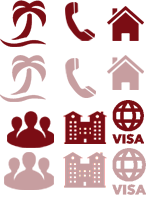
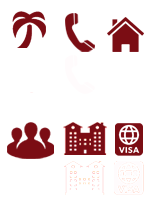
add news and event scaffold

diff --git a/app/assets/stylesheets/application.css.scss b/app/assets/stylesheets/application.css.scss
@@ -126,13 +126,13 @@ p, span {color:#000}
   }
 .menu_bar .menu-side {position:relative; height:60%;  z-index:200;}
 .logo-side {
-  top: -48px;    
+  top: -43px;    
   z-index: 50;  
   height:210px;
   background-image: url(image-path('didar_travel.png'));
   background-repeat: no-repeat;
   background-position: center;
-  background-size: cover;
+  background-size:120%;
   }
 .menu_bar .menu-side.right-side {margin-right:5px}
 .logo-side a {text-align:center}
@@ -161,18 +161,18 @@ p, span {color:#000}
   -webkit-transition: all .5s; /* For Safari 3.1 to 6.0 */
   transition: all .5s; 
   }
-.menu_bar ul#main-menu li.item-menu .icon#home{background-position: 100% 30%; }
-.menu_bar ul#main-menu li.item-menu .icon#tours{background-position: 0 30%; }
-.menu_bar ul#main-menu li.item-menu .icon#hotels{background-position: 57% 95%;}
-.menu_bar ul#main-menu li.item-menu .icon#visa{background-position: 111% 95%;}
-.menu_bar ul#main-menu li.item-menu .icon#page1{background-position: 0 95%;}
+.menu_bar ul#main-menu li.item-menu .icon#home{background-position: 100% 35%; }
+.menu_bar ul#main-menu li.item-menu .icon#tours{background-position: 0 33%; }
+.menu_bar ul#main-menu li.item-menu .icon#hotels{background-position: 57% 100%;}
+.menu_bar ul#main-menu li.item-menu .icon#visa{background-position: 100% 100%;}
+.menu_bar ul#main-menu li.item-menu .icon#page1{background-position: 10% 100%;}
 .menu_bar ul#main-menu li.item-menu .icon#page2{background-position: 53% 35%;}
-.menu_bar ul#main-menu li.item-menu:hover .icon#home,.menu_bar ul#main-menu li.item-menu.active .icon#home{background-position: 100% 0;}
-.menu_bar ul#main-menu li.item-menu:hover .icon#tours,.menu_bar ul#main-menu li.item-menu.active .icon#tours{background-position: 0 -5%;}
-.menu_bar ul#main-menu li.item-menu:hover .icon#hotels,.menu_bar ul#main-menu li.item-menu.active .icon#hotels{background-position: 57% 65%;}
-.menu_bar ul#main-menu li.item-menu:hover .icon#visa,.menu_bar ul#main-menu li.item-menu.active .icon#visa{background-position: 111% 65%;}
-.menu_bar ul#main-menu li.item-menu:hover .icon#page1,.menu_bar ul#main-menu li.item-menu.active .icon#page1{background-position: 0 68%;}
-.menu_bar ul#main-menu li.item-menu:hover .icon#page2,.menu_bar ul#main-menu li.item-menu.active .icon#page2{background-position: 52% -2%;}
+.menu_bar ul#main-menu li.item-menu:hover .icon#home,.menu_bar ul#main-menu li.item-menu.active .icon#home{background-position: 100% 7%;}
+.menu_bar ul#main-menu li.item-menu:hover .icon#tours,.menu_bar ul#main-menu li.item-menu.active .icon#tours{background-position: 0 3%;}
+.menu_bar ul#main-menu li.item-menu:hover .icon#hotels,.menu_bar ul#main-menu li.item-menu.active .icon#hotels{background-position: 57% 73%;}
+.menu_bar ul#main-menu li.item-menu:hover .icon#visa,.menu_bar ul#main-menu li.item-menu.active .icon#visa{background-position: 100% 75%;}
+.menu_bar ul#main-menu li.item-menu:hover .icon#page1,.menu_bar ul#main-menu li.item-menu.active .icon#page1{background-position: 10% 75%;}
+.menu_bar ul#main-menu li.item-menu:hover .icon#page2,.menu_bar ul#main-menu li.item-menu.active .icon#page2{background-position: 52% 4%;}
 .menu_bar ul#main-menu.fa li.item-menu {font-family: 'Bhoma';}
 .menu_bar ul#main-menu li.item-menu a {  
   padding-top:50px;
@@ -276,13 +276,13 @@ left: 0;}
 .footer  .contact-info.fa p {direction:rtl; font-family: 'open_sansregular';color:#fff}
 .footer  .contact-info.ar p {direction:ltr; font-family:'ASpiritOfDohaMedium'; font-size:1em; color:#fff}
 .footer  .contact-info.en p { color:#fff}
-.yield {position:relative}
+.yield {position:relative; margin-top:-75px;}
 .anchorLink {position:fixed; bottom:0; left:0; z-index:10}
 .form-control:focus {border-color:#CC1A1A}
 .form-control {background-color:transparent; border:1px solid #BFBFBF}
 .footer .google-map-box {border:1px solid #BFBFBF; width:100%; height:300px}
 .footer .footer-bottom {position: absolute;
-  height:120px; overflow:hidden;
+  height:130px; overflow:hidden;
 bottom: 0;}
 .footer-menu ul{list-style:none}
 .footer-menu ul li{list-style:none}
@@ -302,8 +302,9 @@ top: 0;
   background-repeat:no-repeat;
   border:none;  
   background-color:transparent;
+  background-position: 50% 0;
   color:#fff;
-  padding-top: 45%;
+  padding-top: 40px;
   width:60px;
   text-align:center;
   }
@@ -311,8 +312,9 @@ top: 0;
   background-repeat:no-repeat;
   border:none;  
   background-color:transparent;
+  background-position: 50% 0;
   color:#fff;
-  padding-top: 60%;
+  padding-top: 40px;
   margin-top: -17%;
   width:60px;
   }
@@ -370,7 +372,7 @@ top: 0;
   }
 .slider4 .slide .more-info a i{
     position: absolute;
-    right: 45%;
+    right: 5%;
     width: 100px;
     height: 40px;
     left: 20%;
@@ -426,3 +428,23 @@ top: 0;
 .plane-company .plane-logo{width:100px; height:100px; float:right;}
 .title-certificate {}
 .plane-company .plane-logo:hover a img{opacity:.6}
+.show-news-and-event {margin-bottom:5%}
+
+.show-news-and-event.fa .news-title, .show-news-and-event.ar .news-title {text-align:right}
+.show-news-and-event.en .news-title{text-align:left}
+.show-news-and-event .news-text {margin-top:5%}
+.show-news-and-event.fa .news-text, .show-news-and-event.ar .news-text {float:right; border-right:solid 4px #530707}
+.show-news-and-event.fa .news-text p, .show-news-and-event.ar .news-text p {text-align:justify; direction:rtl;}
+.show-news-and-event.fa .news-text p {direction:rtl; font-family: 'open_sansregular';}
+.show-news-and-event.ar .news-text p {direction:rtl; font-family:'ASpiritOfDohaMedium'; font-size:1.2em }
+h1.page-title#news_and_vent {
+  background-image: url(image-path('news-line.png'));
+  background-repeat:no-repeat;  
+  background-position:50% 100%;
+  height:85px;
+  color:#530707;
+  text-align:center;
+  }
+    
+ul.news_and_vents {list-style:square; padding:5%}
+ul.news_and_vents li.news-item{font-size:1.2em}

diff --git a/app/assets/stylesheets/jquery-ui-1.8.14.css.scss b/app/assets/stylesheets/jquery-ui-1.8.14.css.scss
@@ -306,7 +306,7 @@
  *
  * http://docs.jquery.com/UI/Datepicker#theming
  */
-.ui-datepicker { width: 17em; padding: .2em .2em 0; display: none; }
+.ui-datepicker { width: 14em; padding: .2em .2em 0; display: none; }
 .ui-datepicker .ui-datepicker-header { position:relative; padding:.2em 0; background:#6B0C0C; }
 .ui-datepicker .ui-datepicker-prev, .ui-datepicker .ui-datepicker-next { position:absolute; top: 2px; width: 1.8em; height: 1.8em; }
 .ui-datepicker .ui-datepicker-prev-hover, .ui-datepicker .ui-datepicker-next-hover { top: 1px; }

diff --git a/app/assets/stylesheets/example_jquerytools.css.scss b/app/assets/stylesheets/example_jquerytools.css.scss
@@ -13,7 +13,7 @@
 	font-family: Tahoma, Helvetica, sans-serif;
 	font-size: 90%;
 	margin: 2em 3em;
-	width: 280px;
+	width: 100%;
 	color: #ccc;
 }
 .weatherFeed a { color: #888; }
@@ -55,7 +55,7 @@
 	position:relative;
 	overflow:hidden;	
 	height: 160px;	 
-	width: 280px;
+	width: 100%;
 	border: 4px solid #5D1111;
 	-moz-border-radius: 20px;
 	background: url(image-path('bg.png')) repeat-x;

diff --git a/app/controllers/news_and_vents_controller.rb b/app/controllers/news_and_vents_controller.rb
@@ -1,0 +1,75 @@
+# encoding: UTF-8
+class NewsAndVentsController < ApplicationController
+  before_action :set_news_and_vent, only: [:show, :edit, :update, :destroy]
+
+  # GET /news_and_vents
+  # GET /news_and_vents.json
+  def index
+    @news_and_vents = NewsAndVent.all
+  end
+
+  # GET /news_and_vents/1
+  # GET /news_and_vents/1.json
+  def show
+  end
+
+  # GET /news_and_vents/new
+  def new
+    @news_and_vent = NewsAndVent.new
+  end
+
+  # GET /news_and_vents/1/edit
+  def edit
+  end
+
+  # POST /news_and_vents
+  # POST /news_and_vents.json
+  def create
+    @news_and_vent = NewsAndVent.new(news_and_vent_params)
+
+    respond_to do |format|
+      if @news_and_vent.save
+        format.html { redirect_to @news_and_vent, notice: 'خبر جدید ثبت شد.' }
+        format.json { render :show, status: :created, location: @news_and_vent }
+      else
+        format.html { render :new }
+        format.json { render json: @news_and_vent.errors, status: :unprocessable_entity }
+      end
+    end
+  end
+
+  # PATCH/PUT /news_and_vents/1
+  # PATCH/PUT /news_and_vents/1.json
+  def update
+    respond_to do |format|
+      if @news_and_vent.update(news_and_vent_params)
+        format.html { redirect_to @news_and_vent, notice: 'ویرایش اطلاعات انجام شد.' }
+        format.json { render :show, status: :ok, location: @news_and_vent }
+      else
+        format.html { render :edit }
+        format.json { render json: @news_and_vent.errors, status: :unprocessable_entity }
+      end
+    end
+  end
+
+  # DELETE /news_and_vents/1
+  # DELETE /news_and_vents/1.json
+  def destroy
+    @news_and_vent.destroy
+    respond_to do |format|
+      format.html { redirect_to news_and_vents_url, notice: 'News and vent was successfully destroyed.' }
+      format.json { head :no_content }
+    end
+  end
+
+  private
+    # Use callbacks to share common setup or constraints between actions.
+    def set_news_and_vent
+      @news_and_vent = NewsAndVent.friendly.find(params[:id])
+    end
+
+    # Never trust parameters from the scary internet, only allow the white list through.
+    def news_and_vent_params
+      params.require(:news_and_vent).permit(:title_fa, :title_en, :title_ar, :text_fa, :text_en, :text_ar, :source, :image)
+    end
+end

diff --git a/app/models/news_and_vent.rb b/app/models/news_and_vent.rb
@@ -1,0 +1,27 @@
+# encoding: UTF-8
+class NewsAndVent < ActiveRecord::Base
+  extend FriendlyId  
+  friendly_id :title_fa
+  has_attached_file :image, :styles => { :original => "700x650>" , :medium => "450x450>", :small => "100x150>", :toursize => "248x370#", :tumb => "120x70" }
+  validates_attachment :image, 
+    :content_type => { :content_type => ["image/jpg", "image/jpeg", "image/png"], :message => "فرمت عکس صحیح می باشد." },
+    :size => { :in => 0..300.kilobytes , :message => "حجم تصویر بیشتر از 300 کیلوبایت است."}
+  def title
+    if I18n.locale == :ar
+      self.read_attribute("title_ar")
+    elsif I18n.locale == :en
+      self.read_attribute("title_en")
+    else
+      self.read_attribute("title_fa")
+    end    
+  end
+  def text
+    if I18n.locale == :ar
+      self.read_attribute("text_ar")
+    elsif I18n.locale == :en
+      self.read_attribute("text_en")
+    else
+      self.read_attribute("text_fa")
+    end    
+  end
+end

diff --git a/db/schema.rb b/db/schema.rb
@@ -11,7 +11,7 @@
 #
 # It's strongly recommended that you check this file into your version control system.
 
-ActiveRecord::Schema.define(version: 20150307075224) do
+ActiveRecord::Schema.define(version: 20150311060727) do
 
   create_table "ahoy_events", force: true do |t|
     t.uuid     "visit_id"
@@ -199,6 +199,22 @@ ActiveRecord::Schema.define(version: 20150307075224) do
     t.datetime "created_at"
     t.datetime "updated_at"
     t.boolean  "visited",    default: false
+  end
+
+  create_table "news_and_vents", force: true do |t|
+    t.string   "title_fa"
+    t.string   "title_en"
+    t.string   "title_ar"
+    t.text     "text_fa"
+    t.text     "text_en"
+    t.text     "text_ar"
+    t.string   "source"
+    t.datetime "created_at"
+    t.datetime "updated_at"
+    t.string   "image_file_name"
+    t.string   "image_content_type"
+    t.integer  "image_file_size"
+    t.datetime "image_updated_at"
   end
 
   create_table "pages", force: true do |t|

diff --git a/db/migrate/20150311060432_create_news_and_vents.rb b/db/migrate/20150311060432_create_news_and_vents.rb
@@ -1,0 +1,15 @@
+class CreateNewsAndVents < ActiveRecord::Migration
+  def change
+    create_table :news_and_vents do |t|
+      t.string :title_fa
+      t.string :title_en
+      t.string :title_ar
+      t.text :text_fa
+      t.text :text_en
+      t.text :text_ar
+      t.string :source
+
+      t.timestamps
+    end
+  end
+end

diff --git a/db/migrate/20150311060727_add_attachment_image_to_news_and_vents.rb b/db/migrate/20150311060727_add_attachment_image_to_news_and_vents.rb
@@ -1,0 +1,11 @@
+class AddAttachmentImageToNewsAndVents < ActiveRecord::Migration
+  def self.up
+    change_table :news_and_vents do |t|
+      t.attachment :image
+    end
+  end
+
+  def self.down
+    remove_attachment :news_and_vents, :image
+  end
+end

diff --git a/config/routes.rb b/config/routes.rb
@@ -1,4 +1,6 @@
 Rails.application.routes.draw do
+  resources :news_and_vents
+
   resources :certificates
 
   resources :tour_groups

diff --git a/app/helpers/news_and_vents_helper.rb b/app/helpers/news_and_vents_helper.rb
@@ -1,0 +1,2 @@
+module NewsAndVentsHelper
+end
